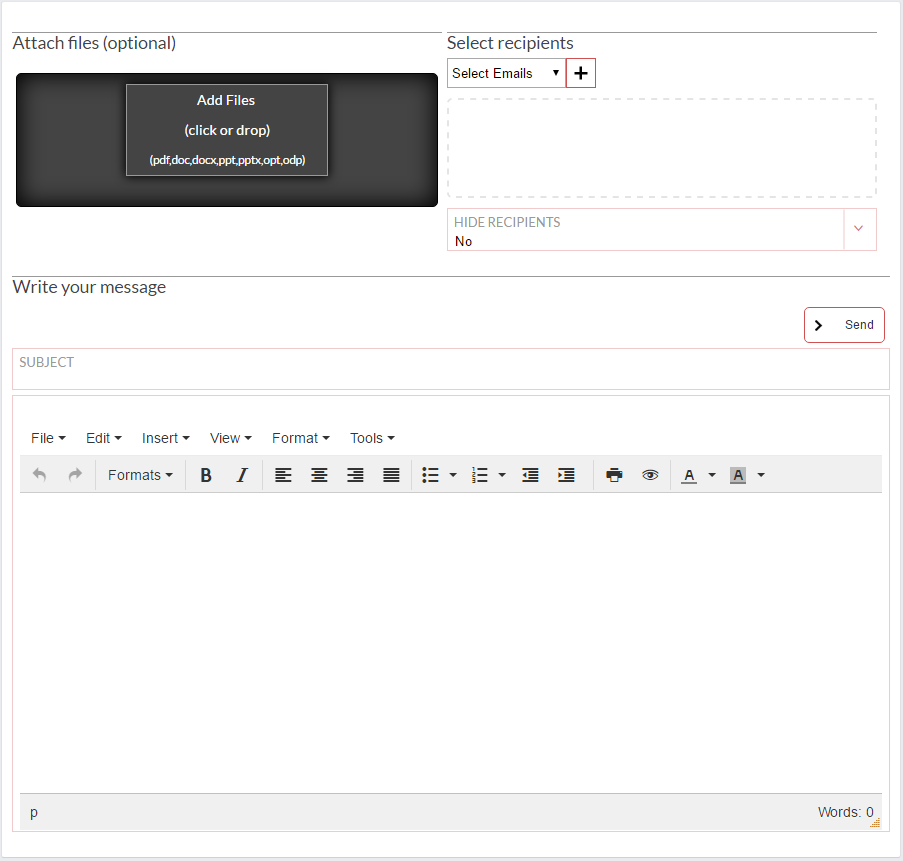
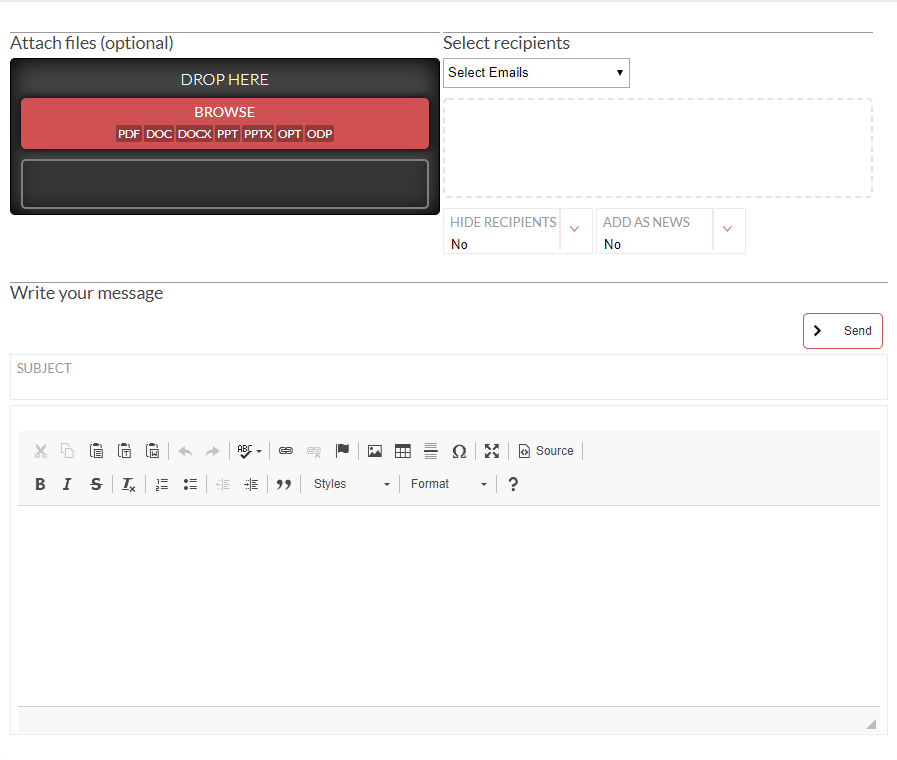
Updated help

diff --git a/pages/help.php b/pages/help.php
@@ -92,7 +92,7 @@
                     <ul>
                         <li><span class="help_bullet_bold">Mailing system</span>: <span class="appName">
                                 <?php echo includes\App::APP_NAME; ?></span> includes a mailing system to notify members
-                            about upcoming journal club sessions, recent news or the last wishes added by the other
+                            about upcoming journal club sessions, recent news or the last suggestions added by the other
                             users.</li>
                         <li><span class="help_bullet_bold">Automatic assignment</span>: <span class="appName">
                                 <?php echo includes\App::APP_NAME; ?></span> can automatically assign members as speaker
@@ -433,8 +433,8 @@
                 <div class="help_section_content">
                     <div class="help_section_content_first">
                         JCM members have the possibility to either submit a new presentation (<em>Submit</em>), to
-                        suggest a presentation to other members (<em>Make a wish</em>)
-                        or to submit a presentation suggested by other members (<em>Select a wish</em>).
+                        suggest a presentation to other members (<em>Make a suggestion</em>)
+                        or to submit a presentation suggested by other members (<em>Select a suggestion</em>).
                     </div>
                     <div class="help_section_content_last img_container">
                         <img class="help_img" src="<?php echo URL_TO_IMG; ?>help/submission_menu.png"
@@ -475,12 +475,12 @@
 
                     <div class="help_section_container">
                         <div class="help_section_header">
-                            <h3 id="suggest-a-paper"><a href="#suggest-a-paper" name="suggest-a-paper">Make a wish</a>
+                            <h3 id="suggest-a-paper"><a href="#suggest-a-paper" name="suggest-a-paper">Add a suggestion</a>
                             </h3>
                         </div>
                         <div class="help_section_content">
                             <div class="help_section_content_full">
-                                <p>The procedure for making a wish (suggest a presentation) is similar to submitting a
+                                <p>The procedure for making a suggestion (suggest a presentation) is similar to submitting a
                                     new presentation except that the user
                                     does not have to provide a date (see <a href="#submit-a-new-publication">Submit a
                                         new presentation</a>).</p>
@@ -492,12 +492,12 @@
                         <div class="help_section_header">
                             <h3 id="select-a-paper-from-the-wish-list"><a href="#select-a-paper-from-the-wish-list"
                                                                           name="select-a-paper-from-the-wish-list">
-                                    Select a paper from the wish list</a></h3>
+                                    Select a paper from the suggestions list</a></h3>
                         </div>
                         <div class="help_section_content">
                             <div class="help_section_content_full">
                                 <p>You can choose to submit a presentation suggested by other members. To do so, click
-                                    on "Select a wish" in submission menu. You will be prompted
+                                    on "Select a suggestion" in submission menu. You will be prompted
                                 with a selection list of all suggested presentations. Select the one you wish to
                                     present, and choose a date for your presentation. You can also edit the presentation
                                     information and/or add/delete files attached to this presentation.</p>
@@ -537,6 +537,9 @@
                             <li><strong>Hide recipients:</strong> if set to "yes", then recipients email addresses
                                 and identities will not be visible. Note that this will also prevent recipients to
                                 "reply to all".</li>
+                            <li><strong>Add as news:</strong> if set to "yes", then email will be also published as news. This option 
+                                is automatically set to yes when the recipients field is set to "all". Note that in this case, it is still
+                                possible to manually set this option to "no".</li>
                             <li><strong>Subject:</strong> Your email's subject</li>
                             <li><strong>Message:</strong> Your email's content</li>
                         </ul>
@@ -552,9 +555,9 @@
                     <div class="help_section_content_full">
                         <p><span class="appName"><?php echo includes\App::APP_NAME; ?></span> includes a blog-like section
                             ("News", accessible from the main menu) where members can post announcements or news that
-                            might be interesting to the other members of visitors. The latest news are also displayed on
-                            the application home page and can be included in the weekly digest email. News can be posted
-                            from <span class="menu_path">My Tools>Add a news</span>.
+                            might be interesting to the other members or visitors. The latest news are also displayed on
+                            the application home page and can be included in the weekly digest email. News can be posted and edited
+                            from <span class="menu_path">My Tools>News</span>.
                         </p>
                     </div>
                     <div class="help_section_content_first">
@@ -579,11 +582,23 @@
 
             <div class="help_section_container">
                 <div class="help_section_header">
-                    <h2 id="archives"><a href="#archives" name="archives">Archives</a></h2>
+                    <h2 id="archives"><a href="#archives" name="archives">Presentations</a></h2>
                 </div>
                 <div class="help_section_content">
                     <div class="help_section_content_full">
-                        <p>Here, you can find all the previous presentations and download the associated files. Archives
+                        <p>Here, you can find all presentations and download the associated files. Archives
+                            can be filtered by year.</p>
+                    </div>
+                </div>
+            </div>
+
+            <div class="help_section_container">
+                <div class="help_section_header">
+                    <h2 id="archives"><a href="#archives" name="archives">Suggestions</a></h2>
+                </div>
+                <div class="help_section_content">
+                    <div class="help_section_content_full">
+                        <p>Here, you can find all suggestions and download the associated files. Archives
                             can be filtered by year.</p>
                     </div>
                 </div>
@@ -1079,7 +1094,7 @@
                                 <p><strong>Mailing:</strong> send weekly digest including the last news, details about
                                     the
                                     upcoming session, the list of the future
-                                    sessions and the list of the newest wishes.</p>
+                                    sessions and the list of the newest suggestions.</p>
                                 <p><strong>Notification</strong>: Send list of last submissions by email.</p>
                                 <p><strong>Reminder</strong>: send reminder for the upcoming session.</p>
                                 <p><strong>SpeakerAssignment</strong>: automatically assigned speakers to each
@@ -1137,7 +1152,7 @@
                             <p>This is the home page of your <span class="appName"><?php echo includes\App::APP_NAME; ?>
                                 </span>.
                             Here, you can find the last posted news, information about the upcoming sessions and the
-                            wish list.</p>
+                            suggestions list.</p>
                         </div>
                         <div class="help_section_content_last img_container">
                             <a href="<?php echo URL_TO_IMG; ?>help/home.png">
